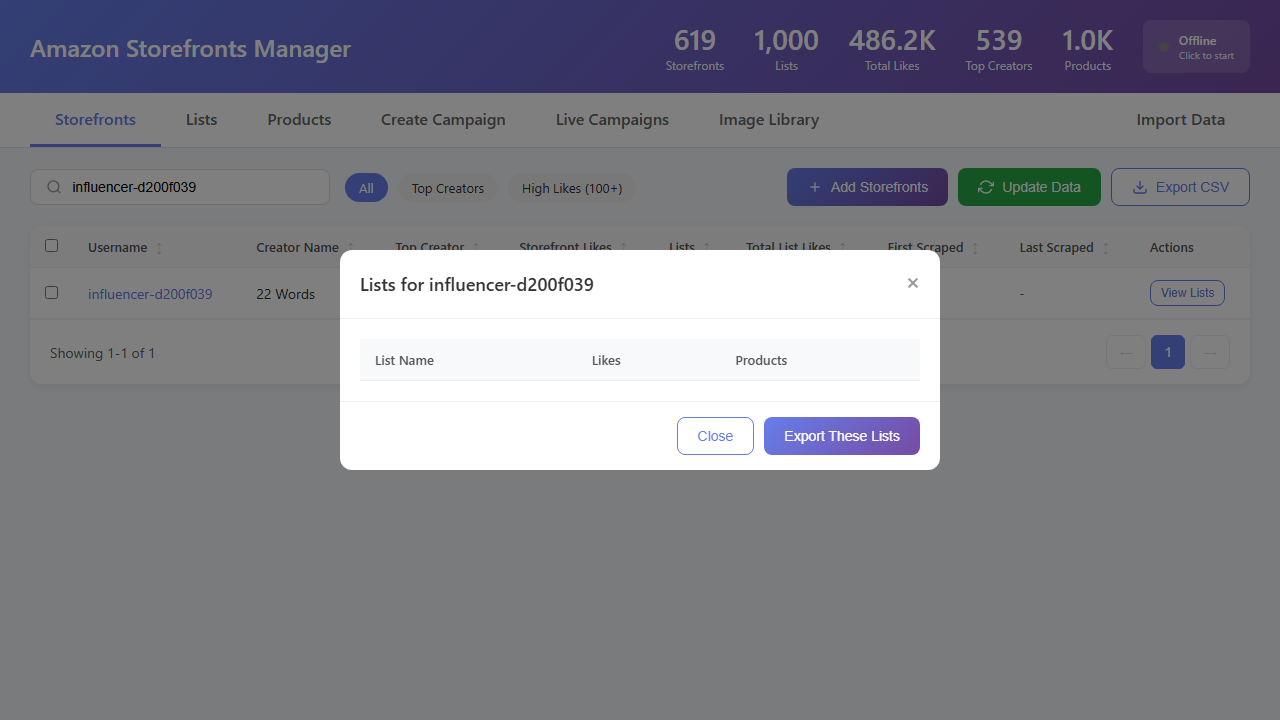
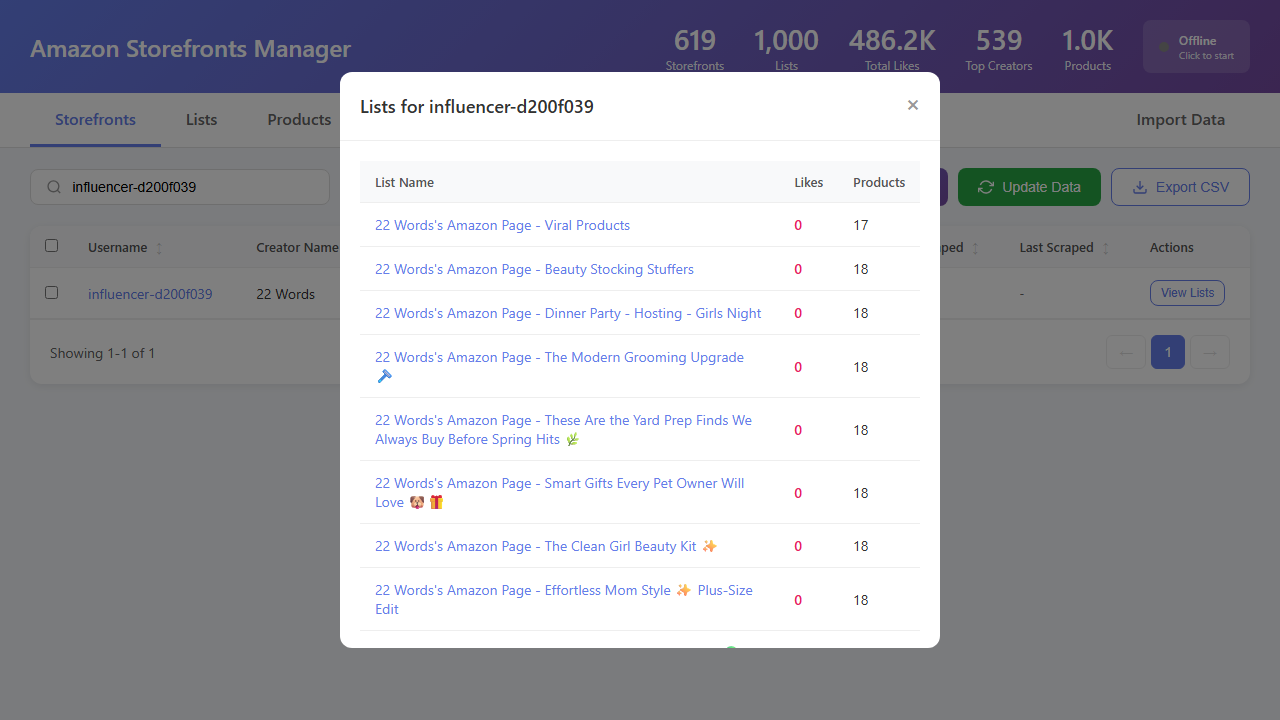
Update documentation with pagination fix and new tests

Changed region(s): [[0.25, 0.0917, 0.75, 0.4583], [0.25, 0.5806, 0.75, 0.9167], [0.2812, 0.4889, 0.625, 0.5194]]

diff --git a/CLAUDE.md b/CLAUDE.md
@@ -449,10 +449,16 @@ ASINS = [
 - **Bulk Update Selected**: Select multiple lists and update all at once
 - **Scraper Server API**: `/scrape-list` endpoint for programmatic access
 
+### Data Loading Fix
+- **Pagination for Large Datasets**: Fixed Supabase 1000-row limit by loading all lists using paginated requests
+- Now loads all 10,875+ lists instead of just the top 1000
+- Fixes "View Lists" showing empty for storefronts with low-engagement lists
+
 ### New Scripts
 - `scripts/scraper-server.js` - API server with `/scrape-list` endpoint
 - `scripts/scrape-list-products.js` - Standalone CLI tool for scraping list products
 - `scripts/test-export-feature.js` - Playwright tests for UI features
+- `scripts/test-view-lists.js` - Test for View Lists functionality
 
 ### Testing
 - Automated Playwright tests verify:
@@ -461,6 +467,8 @@ ASINS = [
   - Export Excel functionality
   - Products link navigation
   - CSV file structure validation
+  - Bulk update button visibility
+  - View Lists for all storefronts (including low-engagement)
 
 ---
 
